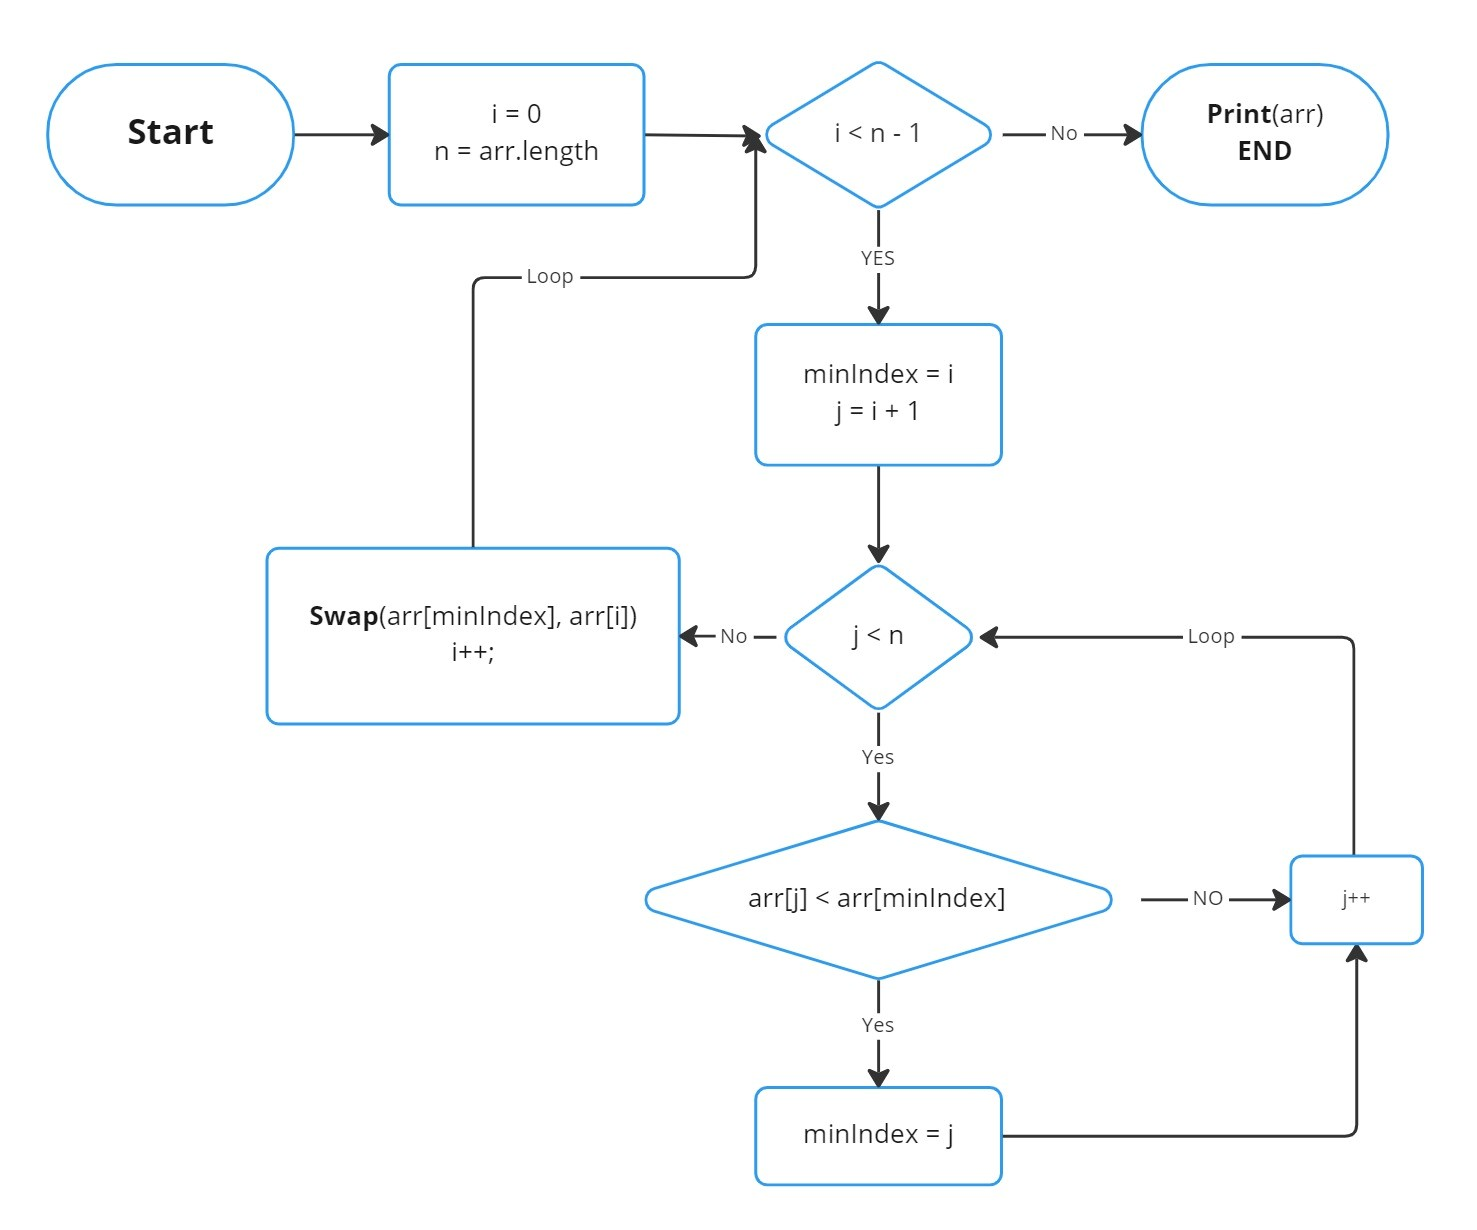
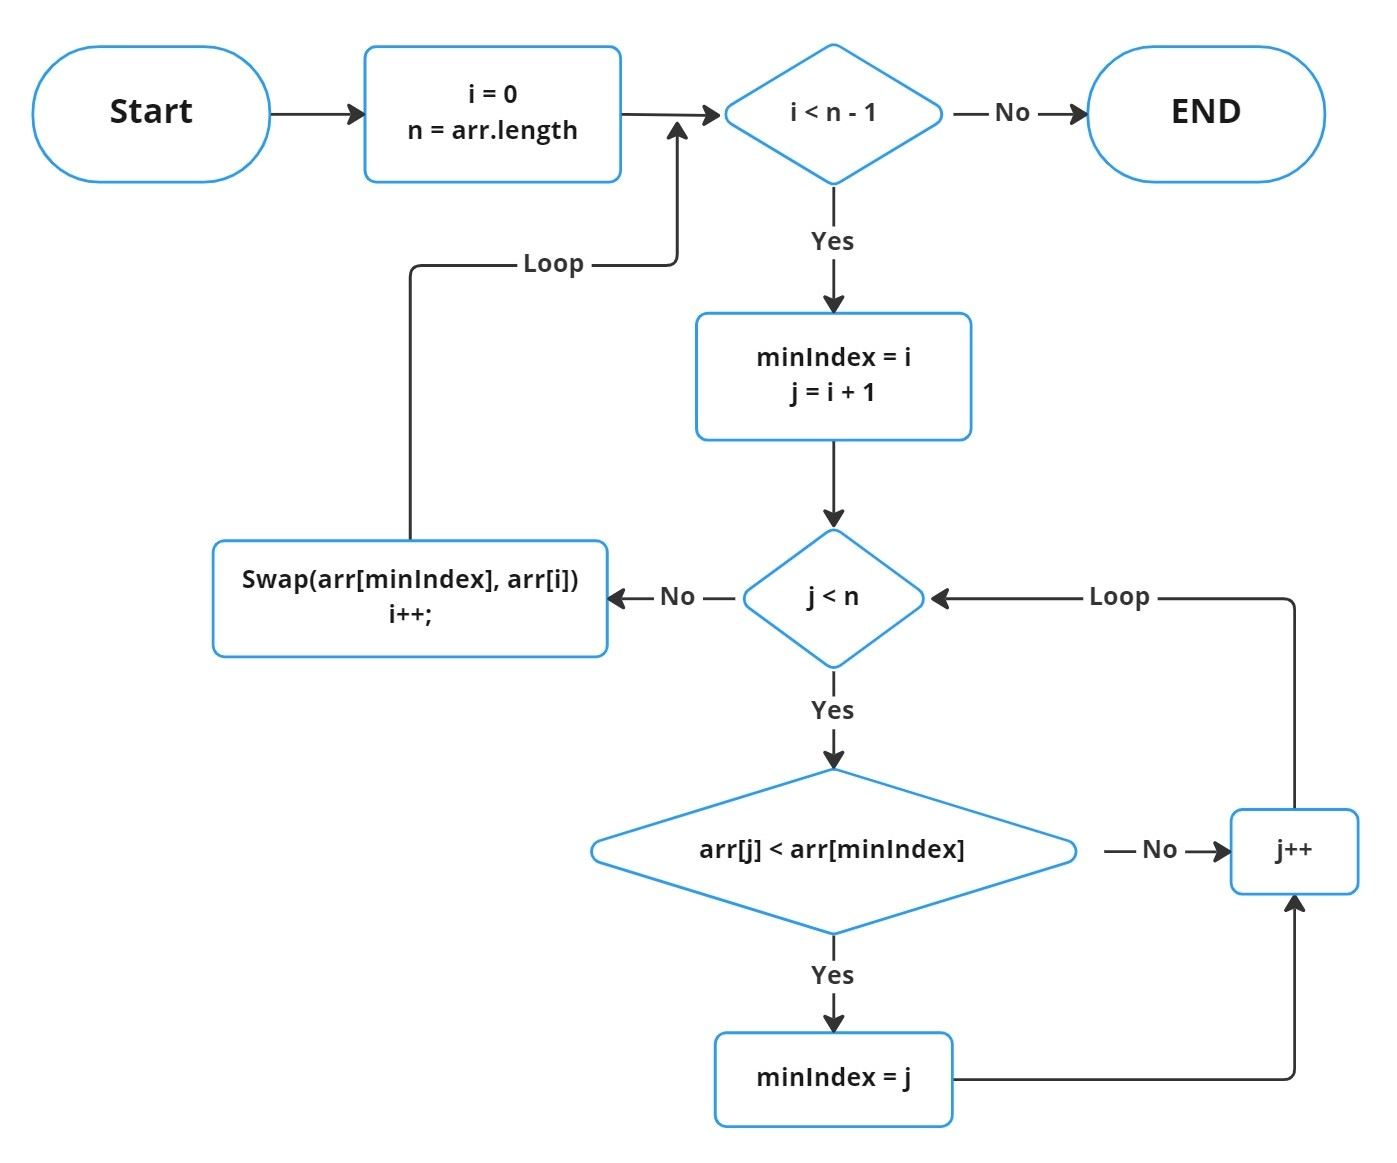
feat:<Insertion sort> insertin sort flow chart and readme file add

diff --git a/src/app/components/Algorithms/sorting/insertion-sort/insertion-sort.component.html b/src/app/components/Algorithms/sorting/insertion-sort/insertion-sort.component.html
@@ -1,9 +1,9 @@
 <h1 class="text-center">Insertion Sort</h1>
 <div class="mt-md-4 mt-3" [innerHtml]="insertionSortMetaData.defination"></div>
-<div class="mt-md-4 mt-3" [innerHtml]="insertionSortMetaData.explainImage"></div>
-<div class="mt-md-4 mt-3" [innerHtml]="insertionSortMetaData.properties"></div>
-<div class="mt-md-4 mt-3" [innerHtml]="insertionSortMetaData.flowChart"></div>
 <div class="mt-md-4 mt-3" [innerHtml]="insertionSortMetaData.workingProcedure"></div>
+<div class="mt-md-4 mt-3 col-md-7" [innerHtml]="insertionSortMetaData.flowChart"></div>
+<div class="mt-md-4 mt-3 col-md-7" [innerHtml]="insertionSortMetaData.explainImage"></div>
+<div class="mt-md-4 mt-3" [innerHtml]="insertionSortMetaData.properties"></div>
 <div class="mt-md-4 mt-3" [innerHtml]="insertionSortMetaData.applications"></div>
 <div class="mt-md-4 mt-3" [innerHtml]="insertionSortMetaData.other"></div>
 <div class="mt-md-4 mt-3" [innerHtml]="insertionSortMetaData.advantage"></div>

diff --git a/src/app/core/algorithms/sorting-meta-data.ts b/src/app/core/algorithms/sorting-meta-data.ts
@@ -107,8 +107,8 @@ const insertionSortData = {
   defination: `Insertion sort is a simple sorting algorithm that works similar to the way you sort playing cards 
     in your hands. The array is virtually split into a sorted and an unsorted part. Values from the unsorted part 
     are picked and placed at the correct position in the sorted part`,
-  flowChart:"assets/ds-image/DSA-404.webp",
-  explainImage:"assets/ds-image/DSA-404.webp",
+  flowChart:"assets/ds-image/insertion-sort-flowchart.jpg",
+  explainImage:"assets/ds-image/insertion-sort.jpg",
   workingProcedure:[
     'Iterate from arr[1] to arr[N] over the array',
     'Compare the current element (key) to its predecessor',

diff --git a/src/app/components/Algorithms/sorting/insertion-sort/README.md b/src/app/components/Algorithms/sorting/insertion-sort/README.md
@@ -19,32 +19,28 @@ Visualization  is the better way to understand of the things
 
 _If you like this project, please leave me a star._ &#9733;
 
-## Selection Sort | Selection Sort Properties | Selection Sort Applications | Selection Sort Visualization | Selection Sort Complexity | Selection Sort Space Complexity
+## Insertion Sort | Insertion Sort Properties | Insertion Sort Applications | Insertion Sort Visualization | Insertion Sort Complexity | Insertion Sort Space Complexity
 
-### What is Selection Sort ?
+### What is Insertion Sort ?
 
->Selection sort is a simple sorting algorithm. This sorting algorithm is an in-place comparison-based algorithm in which the list is divided into two parts, the sorted part at the left end and the unsorted part at the right end. Initially, the sorted part is empty and the unsorted part is the entire list.
-The smallest element is selected from the unsorted array and swapped with the leftmost element, and that element becomes a part of the sorted array. This process continues moving unsorted array boundary by one element to the right
+>Insertion sort is a simple sorting algorithm that works similar to the way you sort playing cards in your hands. The array is virtually split into a sorted and an unsorted part. Values from the unsorted part are picked and placed at the correct position in the sorted part
 
-### Selection Sort Flowchart 
+### Insertion Sort Flowchart 
+- Iterate from arr[1] to arr[N] over the array
+- Compare the current element (key) to its predecessor
+- If the key element is smaller than its predecessor, compare it to the elements before. Move the greater elements one position up to  make space for the swapped element
 
-- Initialize minimum value(minValue) to location 0.
-- Traverse the array to find the minimum element in the array.
-- While traversing if any element smaller than minValue is found then swap both the values.
-- Then, increment minValue to point to the next element.
-- Repeat until the array is sorted.
-
-<img src="https://github.com/raj-rathod/DSA-visualisation-in-angular/blob/main/src/assets/ds-image/selection-sort-flowchart.jpg?raw=true">
+<img src="https://github.com/raj-rathod/DSA-visualisation-in-angular/blob/main/src/assets/ds-image/insertion-sort-flowchart.jpg?raw=true">
 
 <br>
 
-### Selection Sort Example
+### Insertion Sort Example
 
 <br>
 
-<img src="https://github.com/raj-rathod/DSA-visualisation-in-angular/blob/main/src/assets/ds-image/selection-sort.jpg?raw=true">
+<img src="https://github.com/raj-rathod/DSA-visualisation-in-angular/blob/main/src/assets/ds-image/insertion-sort.jpg?raw=true">
 
-## [Learn More About Selection Sort 👈](https://raj-rathod.github.io/DSA-visualisation-in-angular/)
+## [Learn More About Insertion Sort 👈](https://raj-rathod.github.io/DSA-visualisation-in-angular/)
 
 
 ## Contributing

diff --git a/README.md b/README.md
@@ -59,7 +59,7 @@ graph TD;
 - ### Algorithms
   - **Sorting**
     - [Selection Sort](https://github.com/raj-rathod/DSA-visualisation-in-angular/tree/main/src/app/components/Algorithms/sorting/selection-sort/README.md)
-    - Insertion Sort
+    - [Insertion Sort](https://github.com/raj-rathod/DSA-visualisation-in-angular/tree/main/src/app/components/Algorithms/sorting/insertion-sort/README.md)
     - Merge Sort 
     - Quick Sort
     - Counting Sort
